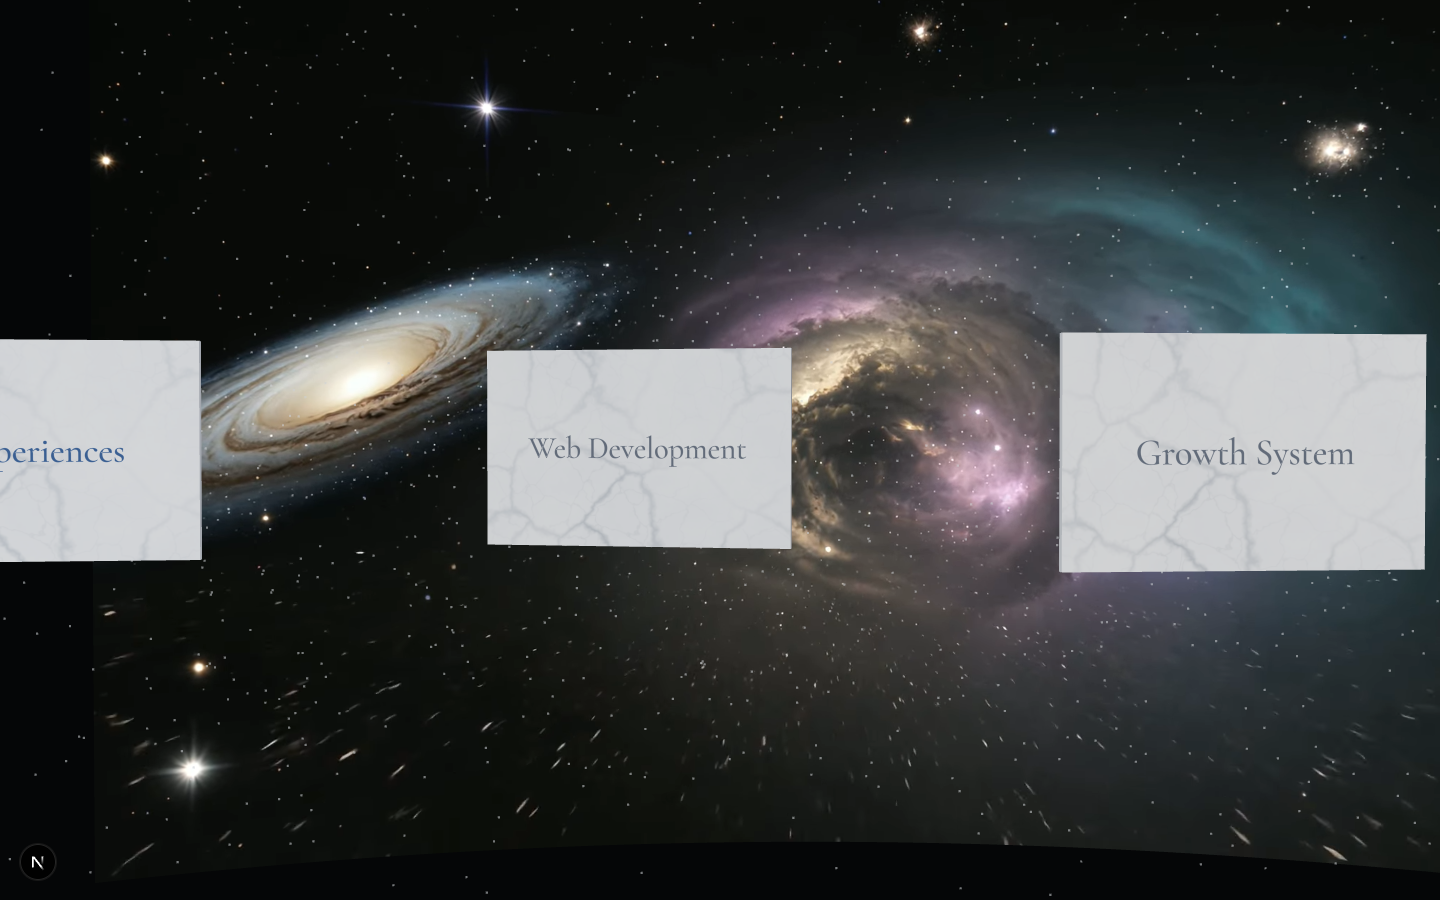
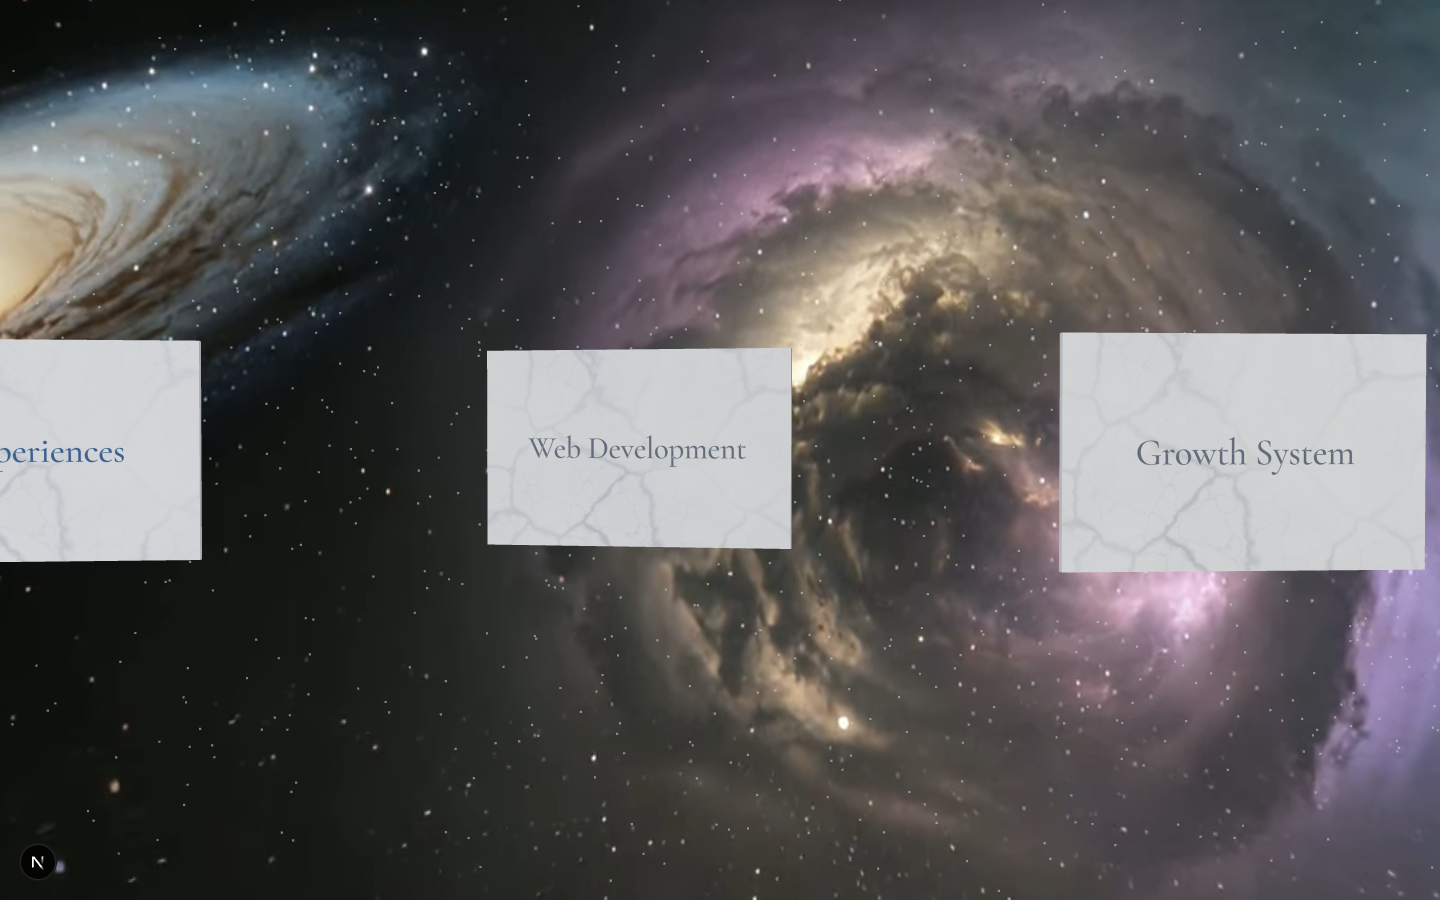
Portal backdrop arc widened so its edges stay out of frame
Claude-Session: https://claude.ai/code/session_01NAdPXLUXCGhh82qBsMYyAh

diff --git a/src/portal/PortalScene.tsx b/src/portal/PortalScene.tsx
@@ -96,7 +96,7 @@ function Backdrop({ video }: { video?: HTMLVideoElement | null }) {
   }, [video, poster]);
   // a shallow arc of radius 60 centred on the rail, its surface about 46 units behind the cards.
   // three's cylinder puts theta 0 on +Z, so the arc is cut around pi to sit on the far side.
-  const geo = useMemo(() => new THREE.CylinderGeometry(60, 60, 30, 64, 1, true, Math.PI - 0.4, 0.8), []);
+  const geo = useMemo(() => new THREE.CylinderGeometry(60, 60, 70, 96, 1, true, Math.PI - 0.75, 1.5), []);
   return (
     <mesh geometry={geo} position={[6.2, 0.4, 14]}>
       {/* fog is for the cards and dust; the backdrop is the far distance itself */}
